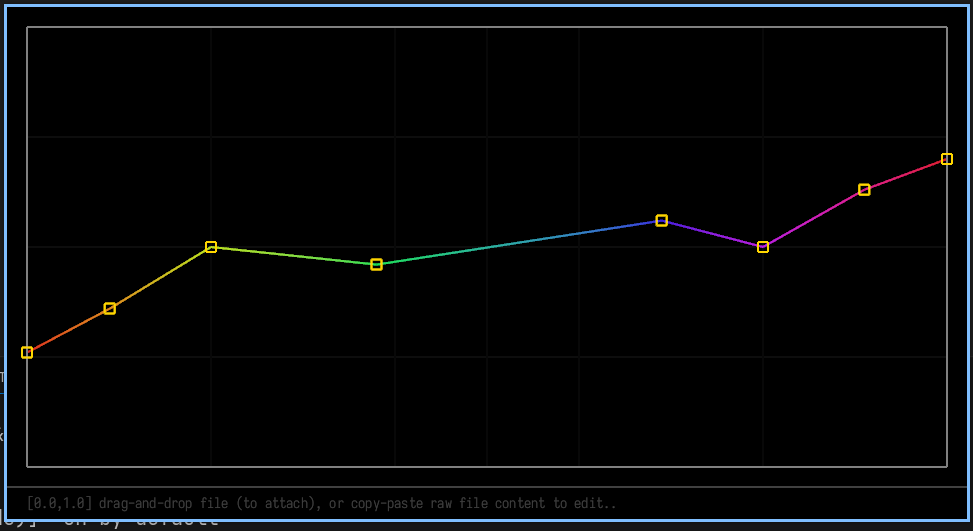
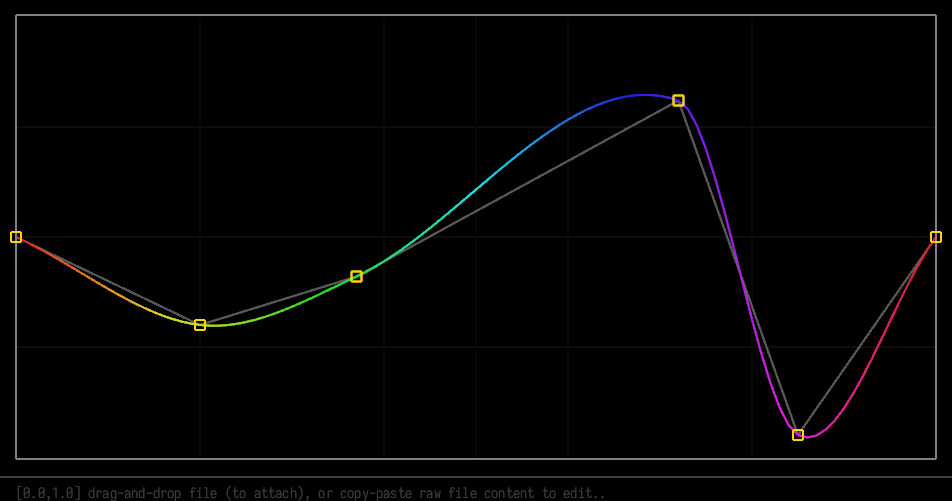
catmull-rom impl

diff --git a/src/spline.rs b/src/spline.rs
@@ -1,0 +1,113 @@
+use bevy::prelude::Vec2;
+
+/// O(N)
+///
+/// sample will return interpolated point on spline defined in points
+/// points data requirements:
+/// - all points sorted by X axis
+/// - all values (x,y) clamped between 0.0 and 1.0
+/// - t clamped between 0.0 and 1.0
+/// - spline len should be not so big ~15-20 points is ok (alg not implement binary search and working with O(N))
+/// - result depending on array size:
+///     len(0) = 0.0
+///     len(1) = value of this single point
+///     len(2) = linear lerp between two points
+///     len(3) = linear lerp between first and last points
+///     len(4+) = catmull-rom interpolation
+pub fn sample(points: &[Vec2], t: f32) -> f32 {
+    return match points.len() {
+        0 => 0.0,
+        1 => points[0].y,
+        2 => lerp(points[0].y, points[1].y, t),
+        3 => lerp(points[0].y, points[2].y, t),
+        _ => {
+            let last_ind = points.len() - 1;
+
+            // micro opts
+            if t <= 0.0 {
+                return points[0].y;
+            }
+            if t >= 1.0 {
+                return points[last_ind].y;
+            }
+
+            // alg
+            let ind = lowest(points, t);
+
+            let cp0 = points[ind];
+            let cp1 = match ind < last_ind {
+                true => points[ind + 1],
+                false => points[last_ind] + Vec2::new(0.01, 0.0),
+            };
+
+            let cpm0 = match ind == 0 {
+                true => points[ind] - Vec2::new(0.01, 0.0),
+                false => points[ind - 1],
+            };
+
+            let cpm1 = match ind < last_ind - 1 {
+                true => points[ind + 2],
+                false => points[last_ind] + Vec2::new(0.01, 0.0),
+            };
+
+            let norm_x = normalize(t, cp0.x, cp1.x);
+
+            cubic_hermite(
+                norm_x,
+                (cpm0.x, cpm0.y),
+                (cp0.x, cp0.y),
+                (cp1.x, cp1.y),
+                (cpm1.x, cpm1.y),
+            )
+        }
+    };
+}
+
+#[inline(always)]
+pub fn lerp(a: f32, b: f32, t: f32) -> f32 {
+    a + ((b - a) * t)
+}
+
+#[inline(always)]
+fn lowest(points: &[Vec2], t: f32) -> usize {
+    let mut ind = points.len() - 1;
+    for p in points.iter().rev() {
+        if t >= p.x {
+            return ind;
+        }
+
+        if ind == 0 {
+            break;
+        }
+
+        ind -= 1;
+    }
+
+    return 0;
+}
+
+#[inline(always)]
+fn normalize(t: f32, start: f32, end: f32) -> f32 {
+    (t - start) / (end - start)
+}
+
+#[inline(always)]
+fn cubic_hermite(t: f32, x: (f32, f32), a: (f32, f32), b: (f32, f32), y: (f32, f32)) -> f32 {
+    // sampler stuff
+    let two_t = t * 2.;
+    let three_t = t * 3.;
+    let t2 = t * t;
+    let t3 = t2 * t;
+    let two_t3 = t2 * two_t;
+    let two_t2 = t * two_t;
+    let three_t2 = t * three_t;
+
+    // tangents
+    let m0 = (b.1 - x.1) / (b.0 - x.0) * (b.0 - a.0);
+    let m1 = (y.1 - a.1) / (y.0 - a.0) * (b.0 - a.0);
+
+    a.1 * (two_t3 - three_t2 + 1.)
+        + m0 * (t3 - two_t2 + t)
+        + b.1 * (three_t2 - two_t3)
+        + m1 * (t3 - t2)
+}

diff --git a/src/draw.rs b/src/draw.rs
@@ -1,9 +1,8 @@
 use bevy::{prelude::*, text::Text, time::Time};
-use splines::Key;
-use splines::Spline;
 
 use crate::consts::*;
 use crate::resources::*;
+use crate::spline::sample;
 use crate::StatusBarTextMarker;
 
 pub fn draw_plot(mut gz: Gizmos, area: Res<Area>) {
@@ -57,31 +56,15 @@ pub fn draw_plot(mut gz: Gizmos, area: Res<Area>) {
         prev = cur;
     }
 
-    // draw interpolated result as preview
-    // let start = Key::new(0.0, 0.5, splines::Interpolation::CatmullRom);
-    let spline = Spline::from_vec(
-        area.points
-            .clone()
-            .iter()
-            .map(|p| {
-                Key::new(
-                    p.uncommited.x,
-                    p.uncommited.y,
-                    splines::Interpolation::CatmullRom,
-                )
-            })
-            .collect(),
-    );
-
     let mut prev_value: Vec2 = Vec2::ZERO;
+    let spline: Vec<Vec2> = points.clone().iter().map(|p| p.uncommited).collect();
+    let spline: &[Vec2] = &spline;
+
     for n in 0..=100 {
         let x = (n as f32) * 0.01;
-        let value = spline.clamped_sample(x);
-        if value.is_none() {
-            continue;
-        }
+        let value = sample(spline, x);
 
-        let clamped = value.unwrap().clamp(0.0, 1.0);
+        let clamped = value.clamp(0.0, 1.0);
         let value = Vec2::new(x, clamped);
         gz.line_gradient_2d(
             plot(prev_value),

diff --git a/src/main.rs b/src/main.rs
@@ -2,6 +2,7 @@ mod consts;
 mod draw;
 mod encoders;
 mod resources;
+mod spline;
 
 use std::path::PathBuf;
 

diff --git a/readme.md b/readme.md
@@ -1,5 +1,7 @@
 # simple tool for editing splines/curves
 
+![png](./examples/preview.png)
+
 ### install
 
 Only option is build from sources.
@@ -9,6 +11,11 @@ You need rust and cargo.
 cd project
 cargo build --release
 ```
+
+This program output only raw linear points.
+if you want interpolate it, you need to use some interpolation code/library.
+also you can take/rewrite code from `spline.rs`, it contain `catmull-rom` interpolation algorithm 
+used for drawing.
 
 ### Hotkeys
 ```
